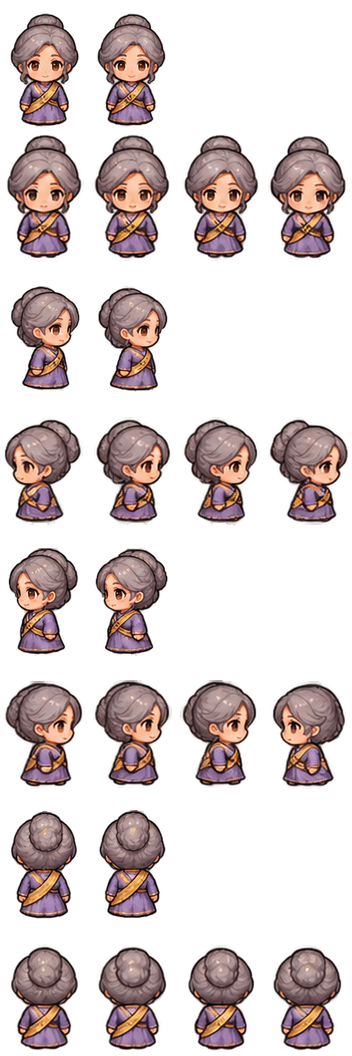
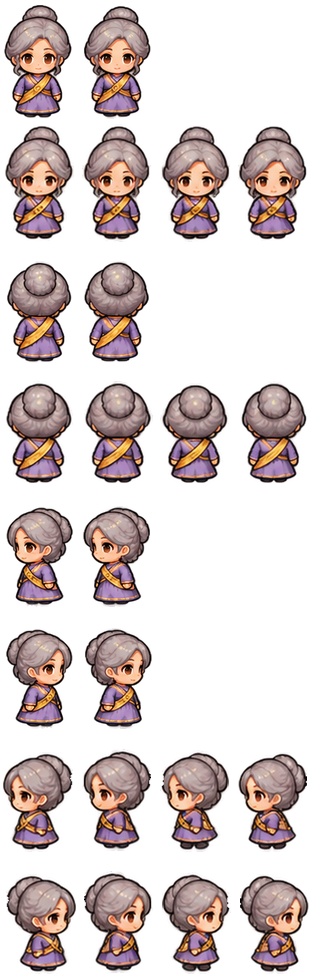
Echo Town update: the Word Hall drawn, Sage Orin's glasses, townsfolk facing the way they walk
From the update pack (art/echo_town_update/):

- The Word Hall, silenced and restored, in place of the greyed farmhouse.
  The silenced hall keeps the mist that thins with each room awake; with
  all six rooms awake the restored hall takes its place.
- Sage Orin's glasses as an icon, in place of the 👓.
- The townsfolk from the pack's corrected sheet. Its side rows still mix
  directions — a standing frame looking one way where its walk looks the
  other, a step taken from behind — so build-art.py tells which way each
  side frame's face looks, from the skin at the top of the figure, drops
  the ones seen from behind and turns the rest: the left rows now look
  left and the right ones right. A turned frame mirrors the /ə/ on Orin's
  hat.

The Word Hall's sign sits over its roof, as the houses' do.

Claude-Session: https://claude.ai/code/session_01H1Fq4BF5W9xQv9dCwhyMVN

diff --git a/app/src/game/scenes/TownScene.ts b/app/src/game/scenes/TownScene.ts
@@ -29,6 +29,9 @@ const SIGNS: Record<string, string> = {
   cafe: 'Café',
 }
 
+/** How many rooms the Word Hall has (server: game.RoomCount). */
+const HALL_ROOMS = 6
+
 /** The library's door, where Lina's shelves are. */
 const LIBRARY_DOOR = door(BUILDINGS.find((b) => b.id === 'library')!)
 
@@ -43,6 +46,8 @@ export class TownScene extends MapScene {
   /** The hush over the Word Hall, which lifts a little with each room whose
    *  words are back. */
   private mist: Phaser.GameObjects.Ellipse[] = []
+  /** The drawn Word Hall, which changes when its last room wakes. */
+  private hall: Phaser.GameObjects.Image | null = null
 
   constructor() {
     super('town')
@@ -106,36 +111,39 @@ export class TownScene extends MapScene {
     }
 
     this.unsubscribe.push(this.bus.on('questGiver', (g) => this.showQuestGiver(g.giver, g.done)))
-    this.unsubscribe.push(this.bus.on('state', (s) => this.thinMist(s.profile.roomsDone ?? 0)))
+    this.unsubscribe.push(this.bus.on('state', (s) => this.showHall(s.profile.roomsDone ?? 0)))
     const known = this.bus.latest('state')
-    if (known) this.thinMist(known.profile.roomsDone ?? 0)
+    if (known) this.showHall(known.profile.roomsDone ?? 0)
     this.time.delayedCall(0, () => {
       const giver = this.bus.latest('questGiver')
       if (giver) this.showQuestGiver(giver.giver, giver.done)
     })
   }
 
-  /** The Word Hall, until it is drawn: the farmhouse grown larger and gone
-   *  grey, a hush of mist drifting over it, and the Lexi's notes on its door. */
+  /** The Word Hall, silenced, with a hush of mist drifting over it. Until it
+   *  is drawn, the farmhouse grown larger and gone grey, with the Lexi's notes
+   *  painted on its door. */
   private drawHall() {
     const x = (WORD_HALL.x + WORD_HALL.w / 2) * TILE
     const foot = (WORD_HALL.y + WORD_HALL.h) * TILE
-    const hall = this.stand('farmhouse', x, foot).setTint(0x9089a6)
-    hall.setScale(hall.scaleX * 1.2, hall.scaleY * 1.1)
+    const drawn = this.present.has('word_hall')
+    const hall = drawn ? this.stand('word_hall', x, foot) : this.stand('farmhouse', x, foot).setTint(0x9089a6)
+    if (!drawn) hall.setScale(hall.scaleX * 1.2, hall.scaleY * 1.1)
+    this.hall = drawn ? hall : null
     this.mist = []
     for (let i = 0; i < 3; i++) {
       const mist = this.add.ellipse(x + (i - 1) * 26, foot - 30 - i * 8, 70, 22, 0x6b5f8a, 0.28).setDepth(foot + 2)
       this.tweens.add({ targets: mist, x: mist.x + 10, duration: 2600 + i * 500, yoyo: true, repeat: -1 })
       this.mist.push(mist)
     }
-    // Three notes pinned to the door.
-    for (let i = 0; i < 3; i++) {
+    // Three notes pinned to the stand-in's door.
+    for (let i = 0; i < 3 && !drawn; i++) {
       this.add
         .rectangle((HALL_DOOR.x + 0.25 + i * 0.25) * TILE, foot - 14 + (i % 2) * 3, 3, 4, 0xfff8e7)
         .setDepth(foot + 1)
     }
     this.add
-      .text(x, WORD_HALL.y * TILE + 2, 'Word Hall', {
+      .text(x, Math.max(2, foot - hall.displayHeight - 6), 'Word Hall', {
         fontFamily: 'Georgia, serif',
         fontSize: '28px',
         color: '#e8e2f5',
@@ -148,10 +156,13 @@ export class TownScene extends MapScene {
   }
 
   /** Each room with its words back takes a share of the hush away; with all
-   *  six, it is gone. */
-  private thinMist(roomsDone: number) {
-    const left = Math.max(0, 1 - roomsDone / 6)
+   *  six it is gone, and the hall is itself again. */
+  private showHall(roomsDone: number) {
+    const left = Math.max(0, 1 - roomsDone / HALL_ROOMS)
     for (const m of this.mist) m.setFillStyle(0x6b5f8a, 0.28 * left).setVisible(left > 0)
+    if (this.hall && roomsDone >= HALL_ROOMS && this.present.has('word_hall_restored')) {
+      this.hall.setTexture('word_hall_restored')
+    }
   }
 
   /** The story's marker over whoever in town has something to say. */

diff --git a/app/src/game/ui/common.tsx b/app/src/game/ui/common.tsx
@@ -9,13 +9,8 @@ import { pick } from './util'
 export function ItemIcon({ id, size = 32 }: { id: string; size?: number }) {
   const [missing, setMissing] = useState(false)
   if (missing) {
-    // A picture not drawn yet: a sign of it where there is one, else an empty
-    // space its size.
-    return (
-      <span className="arena-icon arena-icon-standin" style={{ width: size, height: size, fontSize: size * 0.75 }} aria-hidden="true">
-        {ICON_STAND_INS[id] ?? ''}
-      </span>
-    )
+    // A picture not drawn yet: an empty space its size.
+    return <span className="arena-icon arena-icon-standin" style={{ width: size, height: size }} aria-hidden="true" />
   }
   return (
     <img
@@ -28,9 +23,6 @@ export function ItemIcon({ id, size = 32 }: { id: string; size?: number }) {
     />
   )
 }
-
-/** Signs for icons the art pack does not have yet. */
-const ICON_STAND_INS: Record<string, string> = { ipa_glasses: '👓' }
 
 /** One of a character's four faces: neutral, happy, thinking, worried. */
 export function Portrait({ id, mood = 0 }: { id: string; mood?: number }) {

diff --git a/app/src/game/assets.ts b/app/src/game/assets.ts
@@ -32,7 +32,19 @@ export const NPC_IDS = ['sir_shadow', 'mira', 'bram'] as const
 export const TOWN_NPC_IDS = ['elsa', 'orin', 'lina', 'hugo', 'vy'] as const
 export const ALL_NPC_IDS = [...NPC_IDS, ...TOWN_NPC_IDS] as const
 /** The town's houses and the things in its square, each a picture of its own. */
-export const TOWN_OBJECTS = ['town_hall', 'clinic', 'tower', 'library', 'cafe', 'bench', 'lamp', 'notice_board'] as const
+export const TOWN_OBJECTS = [
+  'town_hall',
+  'clinic',
+  'tower',
+  'library',
+  'cafe',
+  'bench',
+  'lamp',
+  'notice_board',
+  // The Word Hall as the Silence left it, and with all its rooms' words back.
+  'word_hall',
+  'word_hall_restored',
+] as const
 export const CROP_IDS = ['sprout', 'bloom', 'golden'] as const
 /** Growth stages a crop sheet holds: planted, sprout, growing, nearly, ripe. */
 export const CROP_STAGES = 5

diff --git a/app/scripts/build-art.py b/app/scripts/build-art.py
@@ -676,6 +676,7 @@ def monsters(frames):
 # --- Echo Town (chapter 3) ---------------------------------------------------------
 
 TOWN = os.path.join(HERE, "..", "art", "echo_town")
+TOWN_UPDATE = os.path.join(HERE, "..", "art", "echo_town_update")
 TOWN_PEOPLE = ["elsa", "orin", "lina", "hugo", "vy"]
 
 
@@ -683,14 +684,41 @@ def load_town(name):
     return Image.open(os.path.join(TOWN, f"{name}.png")).convert("RGBA")
 
 
+def facing_of(img):
+    """Which way a figure seen from the side looks: "left", "right", or
+    "back" when hardly any face shows. The face is the skin in the top of the
+    figure; hair, hats and beards are behind it."""
+    a = np.asarray(trim(img)).astype(int)
+    head = a[: a.shape[0] * 45 // 100]
+    r, g, b, alpha = head[..., 0], head[..., 1], head[..., 2], head[..., 3]
+    drawn = alpha > 128
+    skin = drawn & (r > 170) & (g > 0.55 * r) & (g < 0.9 * r) & (b > 0.35 * r) & (b < 0.8 * r)
+    if skin.sum() < 0.015 * drawn.sum():
+        return "back"
+    xs = np.nonzero(drawn)[1]
+    return "right" if np.nonzero(skin)[1].mean() > xs.mean() else "left"
+
+
+def turned(frames, way):
+    """Side frames, each turned to look `way`; frames from behind dropped,
+    and the walk filled back up to its length by going round again."""
+    flip = lambda f: f.transpose(Image.FLIP_LEFT_RIGHT)
+    out = [f if facing_of(f) == way else flip(f) for f in frames if facing_of(f) != "back"]
+    return [out[i % len(out)] for i in range(len(frames))] if out else frames
+
+
 def town_people():
     """The five townsfolk: a column each, standing (4 rows of 2) above and
-    walking (4 rows of 4) below, rows facing down, left, right, up — the
-    farm's people's layout."""
-    img = load_town("npcs_town")
-    facing = ["down", "left", "right", "up"]
-    standing = [(80, 20, 305, 610), (360, 20, 625, 610), (660, 20, 885, 610), (940, 20, 1180, 610), (1240, 20, 1470, 610)]
-    walking = [(15, 610, 322, 1024), (330, 610, 636, 1024), (638, 610, 927, 1024), (929, 610, 1218, 1024), (1222, 610, 1530, 1024)]
+    walking (4 rows of 4) below, rows facing down, the two sides, up — the
+    farm's people's layout.
+
+    The pack's side rows do not keep to a side (a standing frame looks left
+    where its walk looks right, a walk turns its back halfway), so the side
+    frames are sorted by which way the face looks and turned to match."""
+    # The update pack's sheet, with the walking rows drawn facing the right way.
+    img = Image.open(os.path.join(TOWN_UPDATE, "npcs_town_fixed.png")).convert("RGBA")
+    standing = [(50, 20, 290, 642), (330, 20, 580, 642), (595, 20, 830, 642), (860, 20, 1100, 642), (1140, 20, 1380, 642)]
+    walking = [(5, 642, 303, 1100), (303, 642, 584, 1100), (584, 642, 838, 1100), (838, 642, 1119, 1100), (1119, 642, 1400, 1100)]
     for name, idle_box, walk_box in zip(TOWN_PEOPLE, standing, walking):
         idle = split_block(img, idle_box, 4, 2)
         walk = split_block(img, walk_box, 4, 4)
@@ -699,10 +727,19 @@ def town_people():
         tall = lambda rows: np.median([trim(f).height for row in rows for f in row])
         k = tall(idle) / tall(walk)
         walk = [[f.resize((round(f.width * k), round(f.height * k)), Image.LANCZOS) for f in row] for row in walk]
-        frames = {}
-        for r, d in enumerate(facing):
-            frames[f"idle-{d}"] = idle[r]
-            frames[f"walk-{d}"] = walk[r]
+        side_idle = idle[1] + idle[2]
+        side_walk = walk[1] + walk[2]
+        frames = {
+            "idle-down": idle[0],
+            "walk-down": walk[0],
+            "idle-up": idle[3],
+            "walk-up": walk[3],
+            "idle-left": turned(side_idle, "left")[:2],
+            "idle-right": turned(side_idle, "right")[:2],
+            "walk-left": turned(side_walk, "left")[:4],
+            "walk-right": turned(side_walk, "right")[:4],
+        }
+        print(name, "sides:", [facing_of(f) for f in side_idle], [facing_of(f) for f in side_walk])
         anims = {f"{a}-{d}": [f"{a}-{d}"] for a in ("idle", "walk") for d in DIRS}
         character(name, frames, anims, "idle-down")
 
@@ -775,6 +812,19 @@ def town_items():
         save(icon(Image.fromarray(a)), f"items/{item}.png")
 
 
+def town_update():
+    """The update pack: the Word Hall as the Silence left it and as its words
+    bring it back, side by side on one board; and Sage Orin's glasses."""
+    img = Image.open(os.path.join(TOWN_UPDATE, "word_hall.png")).convert("RGBA")
+    # Its 6 x 5 tiles are 96 map px; the drawing's eaves and steps a little more.
+    silent, restored = split_block(img, (0, 0, img.width, img.height), 1, 2)[0]
+    save(fit(silent, w=104 * SCALE), "objects/word_hall.png")
+    save(fit(restored, w=104 * SCALE), "objects/word_hall_restored.png")
+    a = np.array(Image.open(os.path.join(TOWN_UPDATE, "ipa_glasses.png")).convert("RGBA"))
+    a[..., 3] = np.where(a[..., 3] > SOLID, 255, np.where(a[..., 3] > 20, a[..., 3], 0))
+    save(icon(Image.fromarray(a)), "items/ipa_glasses.png")
+
+
 def main():
     frames = {}
     people()
@@ -790,6 +840,7 @@ def main():
     town_portraits()
     town_objects(frames)
     town_items()
+    town_update()
     manifest = {"scale": SCALE, "frames": frames}
     with open(os.path.join(OUT, "art.json"), "w") as f:
         json.dump(manifest, f, indent=1)

diff --git a/app/public/game/README.md b/app/public/game/README.md
@@ -53,12 +53,18 @@ From `art/echo_town/`, cut by the same script:
 | `tiles/farm.png` additions | `plaza` (the square's sandstone), `plaza_grey`, `plaza_brick`, and two flower beds, `flowerbed_wood` and `flowerbed_stone` |
 | `items/{flowers,old_book,wool_scarf,honey_cake,coffee,soup}.png` | The gifts and Hugo's café. The pack's hammer and salve are left to the icons pack's |
 
+From `art/echo_town_update/`, the update pack:
+
+| File | What it is |
+|---|---|
+| `characters/{elsa,orin,lina,hugo,vy}.png` + `.json` | Cut from the pack's corrected sheet (`npcs_town_fixed.png`) rather than the first one. Its side rows still do not keep to a side, so the script tells which way each side frame's face looks (the skin in the top of the figure), drops frames seen from behind, and turns the rest to match: the left rows look left and the right rows right. A turned frame mirrors what is written on it — the /ə/ on Sage Orin's hat reads backwards when he walks left |
+| `objects/word_hall.png`, `word_hall_restored.png` | The Word Hall north of the square, 104 map px wide on its 6 × 5 tiles: silenced, with the mist the game draws thinning as each room's words come back; and restored, once all six rooms are awake |
+| `items/ipa_glasses.png` | Sage Orin's glasses, which read the Lexi's notes |
+
 ### Still to draw
 
 | File | What it is |
 |---|---|
-| `objects/word_hall.png` | The Word Hall north of the square, 6×5 tiles, door at the middle of the foot: closed by the Silence, grey with mist and three notes pinned to its door (until then the farmhouse, larger and greyed, with painted mist). A second, restored look will be wanted for chapter 4: for now its mist thins with each room whose words are back |
-| `items/ipa_glasses.png` | Sage Orin's glasses, which read the Lexi's notes (a 👓 stands in) |
 | `rooms/{kitchen,body,nature}.png` (and three more for chapter 4b) | Chapter 4's rooms inside the Word Hall, a picture each for the rooms panel: empty and grey, and full of words with its Lexi awake. Until then the panel shows the room's emoji |
 
 ## What the script does to the pack
